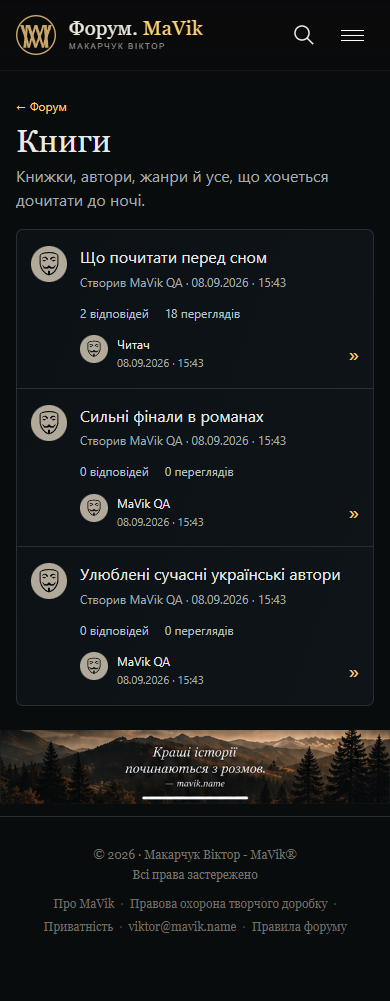
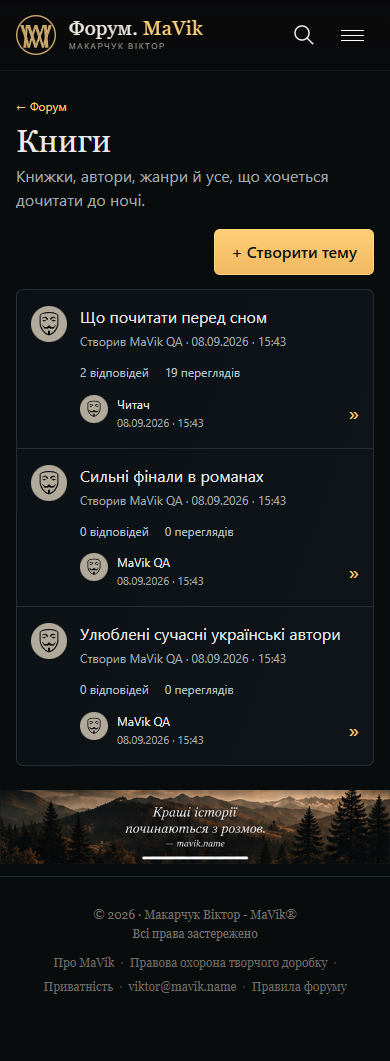
Add category create-topic action, profile navigation and clean home background

diff --git a/mavik-sklad/files/forum/releases/0.9.1/source/assets/release.css b/mavik-sklad/files/forum/releases/0.9.1/source/assets/release.css
@@ -118,3 +118,8 @@ body{background:var(--bg);color:var(--text)}
 .category-topic-meta{display:block;font-size:13px;line-height:1.7}.category-topic-last{display:flex;gap:9px;align-items:flex-start;min-width:0;font-size:13px;line-height:1.6}.category-topic-last>div{min-width:0}.category-topic-last time{display:block;color:var(--muted);font-size:12px}.category-topic-arrow{font-size:21px;align-self:center;margin-left:auto}
 @media(max-width:780px){.category-list-head{display:none}.category-topic-row{grid-template-columns:minmax(0,1fr);gap:12px;padding:16px 14px}.category-topic-summary{grid-column:1;grid-row:auto}.category-topic-copy{grid-column:auto;grid-row:auto}.category-topic-meta{grid-column:1;grid-row:auto;display:flex;gap:16px;padding-left:49px;font-size:12px}.category-topic-last{grid-column:1;padding-left:49px;font-size:12px}.category-topic-last>.avatar{width:28px;height:28px}.category-topic-last time{font-size:11px}.category-topic-arrow{grid-column:auto;grid-row:auto}}
 .category-topic-summary>.category-topic-copy{flex:1}.header-inner>a:last-child{white-space:nowrap}
+
+/* Photographic background only: reference controls must never appear behind live controls. */
+@media(min-width:781px){.forum-hero:before{background-image:linear-gradient(90deg,#080c0d,transparent 30%),url('/assets/forum-hero.jpg');background-size:cover;background-position:center;background-repeat:no-repeat}}
+
+.category-toolbar{display:flex;justify-content:flex-end;margin:0 0 14px}.category-toolbar .btn{min-height:44px}

diff --git a/mavik-sklad/files/forum/releases/0.9.1/source/new-topic.php b/mavik-sklad/files/forum/releases/0.9.1/source/new-topic.php
@@ -4,4 +4,5 @@ maintenance_gate(); member_required();
 if(setting('maintenance_mode','1')==='1' && !is_admin()){http_response_code(403);exit('Створення тем закрите до запуску форуму.');}
 $cats=db()->query('SELECT id,title FROM categories WHERE is_visible=1 ORDER BY sort_order')->fetchAll();$error='';
 if($_SERVER['REQUEST_METHOD']==='POST'){csrf_check();$title=trim((string)($_POST['title']??''));$body=trim((string)($_POST['body']??''));$cat=(int)($_POST['category_id']??0);if($title===''||$body===''||!in_array($cat,array_map('intval',array_column($cats,'id')),true)){$error='Заповни всі поля.';}else{$slug=trim(preg_replace('/[^a-z0-9]+/','-',strtolower(iconv('UTF-8','ASCII//TRANSLIT//IGNORE',$title)?:'tema')),'-').'-'.substr(bin2hex(random_bytes(3)),0,6);$st=db()->prepare('INSERT INTO topics(category_id,user_id,title,slug,body,last_activity_at) VALUES(?,?,?,?,?,CURRENT_TIMESTAMP)');$st->execute([$cat,current_user_id(),$title,$slug,$body]);header('Location:/topic.php?slug='.urlencode($slug));exit;}}
-forum_header('Створити тему');?><section class="page-title"><a href="/">← Форум</a><h1>Нова тема</h1></section><?php if($error):?><div class="notice danger"><?=e($error)?></div><?php endif;?><form method="post" class="panel stack settings-form"><input type="hidden" name="csrf" value="<?=e(csrf_token())?>"><label>Розділ<select name="category_id" required><option value="">Оберіть</option><?php foreach($cats as $c):?><option value="<?=e((string)$c['id'])?>"><?=e($c['title'])?></option><?php endforeach;?></select></label><label>Назва теми<input name="title" required></label><label>Перше повідомлення<textarea name="body" rows="8" required></textarea></label><button class="btn primary">Опублікувати</button></form><?php forum_footer(); ?>
+$selectedCategory=(int)($_POST['category_id']??$_GET['category_id']??0);
+forum_header('Створити тему');?><section class="page-title"><a href="/">← Форум</a><h1>Нова тема</h1></section><?php if($error):?><div class="notice danger"><?=e($error)?></div><?php endif;?><form method="post" class="panel stack settings-form"><input type="hidden" name="csrf" value="<?=e(csrf_token())?>"><label>Розділ<select name="category_id" required><option value="">Оберіть</option><?php foreach($cats as $c):?><option value="<?=e((string)$c['id'])?>" <?=$selectedCategory===(int)$c['id']?'selected':''?>><?=e($c['title'])?></option><?php endforeach;?></select></label><label>Назва теми<input name="title" required></label><label>Перше повідомлення<textarea name="body" rows="8" required></textarea></label><button class="btn primary">Опублікувати</button></form><?php forum_footer(); ?>

diff --git a/mavik-sklad/files/forum/releases/0.9.1/source/index.php b/mavik-sklad/files/forum/releases/0.9.1/source/index.php
@@ -58,7 +58,7 @@ forum_header('Форум');
 </section>
 
 <aside>
-  <div class="panel welcome-panel"><h3>Ласкаво просимо!</h3><p>Приєднуйтесь до спільноти, щоб брати участь в обговореннях, ділитися думками та знаходити однодумців.</p><?php if(is_logged_in()): ?><a class="btn primary block" href="/new-topic.php">Створити тему</a><?php else: ?><a class="btn primary block" href="/auth.php?mode=register">Зареєструватися</a><p class="welcome-login">Вже маєте акаунт? <a href="/auth.php">Увійти</a></p><?php endif; ?></div>
+  <div class="panel welcome-panel"><h3>Ласкаво просимо!</h3><p>Приєднуйтесь до спільноти, щоб брати участь в обговореннях, ділитися думками та знаходити однодумців.</p><?php if(is_admin()): ?><a class="btn primary block" href="/admin/">Адмінка форуму</a><?php elseif(is_logged_in()): ?><a class="btn primary block" href="/new-topic.php">Створити тему</a><?php else: ?><a class="btn primary block" href="/auth.php?mode=register">Зареєструватися</a><p class="welcome-login">Вже маєте акаунт? <a href="/auth.php">Увійти</a></p><?php endif; ?></div>
   <div class="panel"><h3><span class="heading-icon"><?=category_icon('vilne')?></span>Останні обговорення</h3><div class="aside-discussions"><?php foreach(array_slice($latest,0,5) as $t):?><a href="/topic.php?slug=<?=urlencode($t['slug'])?>"><?=avatar($t['last_avatar'],$t['last_author'])?><span><strong><?=e($t['title'])?></strong><small><?=e($t['last_author'])?> · <?=e(format_forum_date($t['last_activity_at']))?></small></span></a><?php endforeach;?></div></div>
   <div class="panel rules-mini"><h3><span class="heading-icon"><?=category_icon('blog-i-teksty')?></span>Правила форуму</h3><ol><li>Повага одне до одного</li><li>Без спаму й образ</li><li>Писати можна про все</li></ol><a class="quiet-link" href="/rules.php">Усі правила →</a></div>
   <div class="panel"><h3><span class="heading-icon"><svg viewBox="0 0 24 24"><path d="M3 3h8l10 10-8 8L3 11z"/><circle cx="7" cy="7" r="1"/></svg></span>Популярні теги</h3><div class="tags"><span>#книги</span><span>#українська_література</span><span>#поезія</span><span>#музика</span><span>#читання</span><span>#рекомендації</span><span>#есе</span><span>#дискусія</span></div></div>

diff --git a/mavik-sklad/files/forum/releases/0.9.1/source/category.php b/mavik-sklad/files/forum/releases/0.9.1/source/category.php
@@ -4,6 +4,7 @@ $slug=(string)($_GET['slug']??''); $st=db()->prepare('SELECT * FROM categories W
 $st=db()->prepare('SELECT t.*,u.display_name,u.avatar_path,lu.display_name last_author,lu.avatar_path last_avatar,lp.id last_post_id,(SELECT COUNT(*) FROM posts p WHERE p.topic_id=t.id AND p.is_hidden=0) replies FROM topics t LEFT JOIN users u ON u.id=t.user_id LEFT JOIN posts lp ON lp.id=(SELECT p2.id FROM posts p2 WHERE p2.topic_id=t.id AND p2.is_hidden=0 ORDER BY p2.created_at DESC,p2.id DESC LIMIT 1) LEFT JOIN users lu ON lu.id=lp.user_id WHERE t.category_id=? AND t.is_hidden=0 ORDER BY t.is_pinned DESC,t.last_activity_at DESC,t.id DESC');$st->execute([$cat['id']]);$topics=$st->fetchAll();
 forum_header($cat['title']); ?>
 <section class="page-title"><a href="/">← Форум</a><h1><?=e($cat['title'])?></h1><p><?=e($cat['description'])?></p></section>
+<div class="category-toolbar"><a class="btn primary" href="/new-topic.php?category_id=<?=(int)$cat['id']?>">+ Створити тему</a></div>
 <div class="category-topics">
 <div class="category-list-head"><span>Теми</span><span>Статистика</span><span>Останнє повідомлення</span></div>
 <?php foreach($topics as $t): ?>

diff --git a/mavik-sklad/files/forum/releases/0.9.1/source/app/bootstrap.php b/mavik-sklad/files/forum/releases/0.9.1/source/app/bootstrap.php
@@ -137,8 +137,8 @@ function format_forum_date(string $date): string {
 
 function forum_header(string $title): void {
     $maintenance = setting('maintenance_mode','1') === '1';
-    $accountLabel = is_admin() ? 'Адмінка форуму' : (is_logged_in() ? 'Профіль' : 'Увійти');
-    $accountUrl = is_admin() ? '/admin/' : (is_logged_in() ? '/profile.php' : '/auth.php');
+    $accountLabel = is_logged_in() ? 'Профіль' : 'Увійти';
+    $accountUrl = is_logged_in() ? '/profile.php' : '/auth.php';
     ?>
 <!doctype html>
 <html lang="uk">

diff --git a/mavik-sklad/files/forum/releases/0.9.1/CHECKPOINT.md b/mavik-sklad/files/forum/releases/0.9.1/CHECKPOINT.md
@@ -2,7 +2,7 @@
 
 Повний актуальний код: source/. Пакет: forum_mavik_test_build_0.9.1.zip. База: попередній реліз ../0.9/ (історія та оригінали там збережені).
 
-Останні прямі вказівки користувача: виправити зламану категорію зі скриншота; збільшити знак до материнського сайту; звузити весь форум до материнського сайту. Параметри взяті з локальної R300: assets/core/site.css та home HTML — 1120px, SVG 42/40px. Оригінальний mobile MaVik logo має пріоритет над взірцевим PNG. Попередній опис ширини 1480px більше не застосовувати. Нижня кава прибрана, стрілка праворуч. Реєстрація — підпис і дата у два рядки. Вхід зберігається 30 днів від останнього запиту: app/session.php, приватне storage/sessions, cookie MAVIKFORUMSESSID. Не включати сесії до архівів/GitHub. Після встановлення одноразовий повторний вхід. Новий референс списку тем застосований до категорій, кольори не переносилися. Вхід до адмінки лише у шапці; привітання веде до створення теми. Останній запит: делікатніша типографіка та пропорції за референсом; зменшені елементи теми, чистий фон без дубльованих кнопок.
+Останні прямі вказівки користувача: виправити зламану категорію зі скриншота; збільшити знак до материнського сайту; звузити весь форум до материнського сайту. Параметри взяті з локальної R300: assets/core/site.css та home HTML — 1120px, SVG 42/40px. Оригінальний mobile MaVik logo має пріоритет над взірцевим PNG. Попередній опис ширини 1480px більше не застосовувати. Нижня кава прибрана, стрілка праворуч. Реєстрація — підпис і дата у два рядки. Вхід зберігається 30 днів від останнього запиту: app/session.php, приватне storage/sessions, cookie MAVIKFORUMSESSID. Не включати сесії до архівів/GitHub. Після встановлення одноразовий повторний вхід. Новий референс списку тем застосований до категорій, кольори не переносилися. У шапці Профіль; у привітанні адміністратора Адмінка форуму. Останній запит: делікатніша типографіка та пропорції за референсом; зменшені елементи теми, чистий фон без дубльованих кнопок.
 
 97 нових перевірок пройдені; qa містить результати, скрипти й скриншоти. Для повторення: використати ізольовану тестову інсталяцію (попередня ../0.9/QA.md), замінити код на source/, запускати на 127.0.0.1:8099. PLAYWRIGHT_MODULE вказує пакет Playwright; браузер Edge. Тестові акаунти/БД не зберігати у GitHub.
 

diff --git a/mavik-sklad/files/forum/releases/0.9.1/RELEASE-NOTES.md b/mavik-sklad/files/forum/releases/0.9.1/RELEASE-NOTES.md
@@ -2,7 +2,9 @@
 
 - Вхід зберігається 30 днів від останнього відвідування, включно з перезапуском браузера. Сесії ізольовані у storage/sessions; не видаляйте цей каталог під час оновлення. Після переходу на нове сховище потрібно один раз увійти повторно. Вихід і блокування облікового запису припиняють доступ.
 - Застосовано новий зразок подачі списку тем: аватар, тема й автор/дата створення; статистика; аватар, автор і дата останнього повідомлення. Кольори MaVik збережені.
-- Прибрано дубль входу в адмінку: у шапці «Адмінка форуму», у привітанні «Створити тему».
+- На сторінках категорій додано «+ Створити тему» з попереднім вибором поточної категорії у формі.
+- Фон головної замінено чистим фото без намальованої кнопки під справжньою «Створити тему».
+- Прибрано дубль входу в адмінку: у шапці «Профіль», у привітанні адміністратора «Адмінка форуму».
 - Виправлено сторінку категорії: назва та автор у широкій колонці, кількість відповідей і дата окремо. На mobile метадані переходять під назву. Власні CSS-класи більше не успадковують шестиколонкову сітку головної.
 - Форум, шапка і вміст звужені до канону материнського сайту: 1120px desktop; 920px на проміжних ширинах; мобільна оболонка до 640px із внутрішніми полями 16px.
 - Маленький PNG логотипа замінено оригінальним assets/brand/mavik-mvv-gold.svg з R300. Знак займає 42px desktop / 40px mobile без зайвих полів; посилання веде на головну форуму.

diff --git a/mavik-sklad/files/forum/releases/0.9.1/source/README-0.9.1.md b/mavik-sklad/files/forum/releases/0.9.1/source/README-0.9.1.md
@@ -2,7 +2,9 @@
 
 - Вхід зберігається 30 днів від останнього відвідування, включно з перезапуском браузера. Сесії ізольовані у storage/sessions; не видаляйте цей каталог під час оновлення. Після переходу на нове сховище потрібно один раз увійти повторно. Вихід і блокування облікового запису припиняють доступ.
 - Застосовано новий зразок подачі списку тем: аватар, тема й автор/дата створення; статистика; аватар, автор і дата останнього повідомлення. Кольори MaVik збережені.
-- Прибрано дубль входу в адмінку: у шапці «Адмінка форуму», у привітанні «Створити тему».
+- На сторінках категорій додано «+ Створити тему» з попереднім вибором поточної категорії у формі.
+- Фон головної замінено чистим фото без намальованої кнопки під справжньою «Створити тему».
+- Прибрано дубль входу в адмінку: у шапці «Профіль», у привітанні адміністратора «Адмінка форуму».
 - Виправлено сторінку категорії: назва та автор у широкій колонці, кількість відповідей і дата окремо. На mobile метадані переходять під назву. Власні CSS-класи більше не успадковують шестиколонкову сітку головної.
 - Форум, шапка і вміст звужені до канону материнського сайту: 1120px desktop; 920px на проміжних ширинах; мобільна оболонка до 640px із внутрішніми полями 16px.
 - Маленький PNG логотипа замінено оригінальним assets/brand/mavik-mvv-gold.svg з R300. Знак займає 42px desktop / 40px mobile без зайвих полів; посилання веде на головну форуму.
